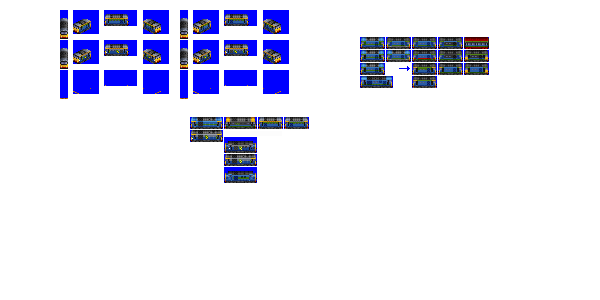
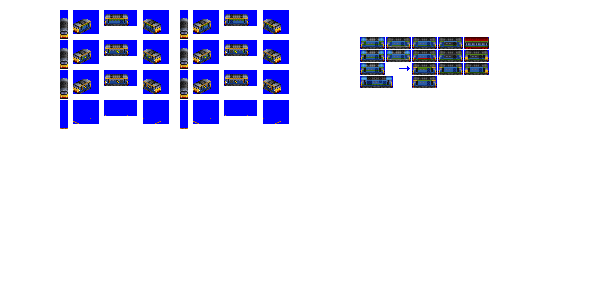
Change: additional livery for Griffon

Changed region(s): [[0.09, 0.24, 0.54, 0.63]]

diff --git a/src/vehicles/griffon.py b/src/vehicles/griffon.py
@@ -16,15 +16,15 @@ def main(roster_id):
         fixed_run_cost_points=100,  # give a bonus so this can be a genuine mixed-traffic engine
         gen=5,  # not replaced by anything (?)
         caboose_family="railfreight_2",
-        additional_liveries=["RAILFREIGHT_TRIPLE_GREY"],
+        additional_liveries=["RAILFREIGHT_TRIPLE_GREY", "RAILFREIGHT_TRIPLE_GREY_COAL"],
         default_livery_extra_docs_examples=[
             ("COLOUR_GREY", "COLOUR_YELLOW"),
             ("COLOUR_WHITE", "COLOUR_GREY"),
             ("COLOUR_GREY", "COLOUR_GREY"),
             ("COLOUR_LIGHT_BLUE", "COLOUR_WHITE"),
         ],
-        decor_spriterow_num=2,
-        show_decor_in_purchase_for_variants=[0, 1],
+        decor_spriterow_num=3,
+        show_decor_in_purchase_for_variants=[0, 1, 2],
         sprites_complete=True,
     )
 
